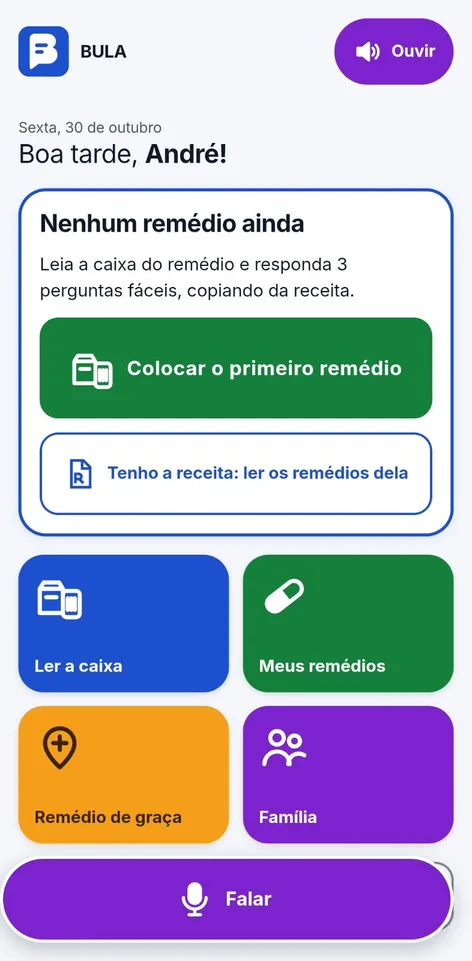
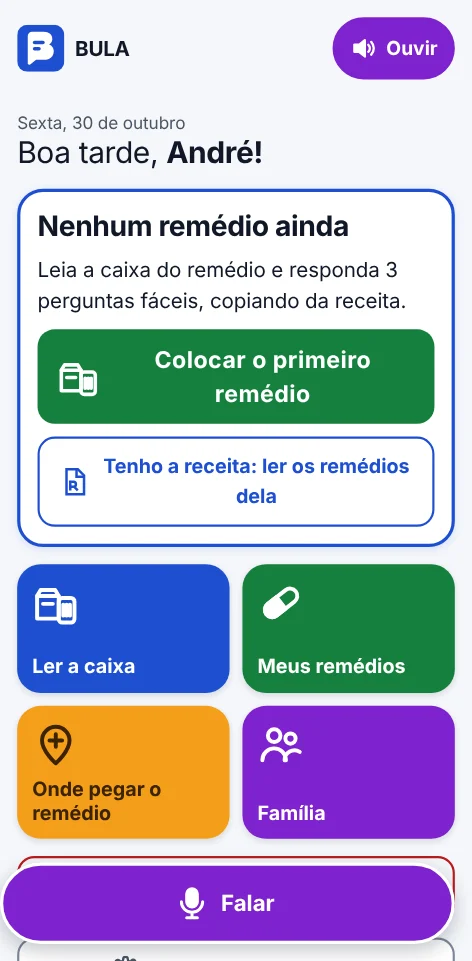
Add files via upload

diff --git a/index.html b/index.html
@@ -207,6 +207,17 @@ tbody tr:last-child td,tbody tr:last-child th{border-bottom:0}
 :root[data-contraste="1"] .subir{background:#000;color:#FFE600;border-color:#FFE600}
 @media (prefers-reduced-motion: reduce){.subir{transition:none}}
 
+/* quem paga, em telas */
+.modelo-telas{list-style:none;padding:0;margin:20px 0 0;display:grid;grid-template-columns:repeat(3,minmax(0,1fr));gap:24px}
+.modelo-telas li{display:flex;flex-direction:column;gap:10px}
+.modelo-telas .celular{background:#020B2B;box-shadow:0 18px 40px rgba(0,0,0,.28)}
+.modelo-telas h4{margin:4px 0 0;font-family:var(--display);font-size:1.15rem;line-height:1.25}
+.modelo-telas p{margin:0;color:var(--sobre-azul-2)}
+.tambem{list-style:none;padding:0;margin:28px 0 0;display:flex;flex-wrap:wrap;gap:10px}
+.tambem li{padding:10px 16px;border-radius:999px;background:rgba(255,255,255,.14);border:1px solid rgba(255,255,255,.35)}
+.exemplo-nota{margin-top:14px;font-size:.88rem;color:var(--sobre-azul-2)}
+:root[data-contraste="1"] .tambem li{background:#000;border-color:#fff}
+@media (max-width:760px){.modelo-telas{grid-template-columns:1fr;max-width:300px;margin-inline:auto}}
 /* privacidade */
 .priv{display:grid;grid-template-columns:repeat(3,minmax(0,1fr));gap:28px;margin-top:40px}
 .priv div{display:flex;flex-direction:column;gap:8px;padding-top:18px;border-top:3px solid var(--azul)}
@@ -343,7 +354,7 @@ tbody tr:last-child td,tbody tr:last-child th{border-bottom:0}
         <button type="button" role="tab" id="tabC" aria-controls="painelC" aria-selected="false" tabindex="-1">Para quem cuida</button>
       </div>
       <ol class="telas" id="painelU" role="tabpanel" aria-labelledby="tabU">
-        <li><div class="celular"><img src="assets/tela-u1.webp" alt="Tela inicial com quatro botões grandes: ler a caixa, meus remédios, remédio de graça e família" loading="lazy" width="472" height="961"></div><h3>Tela inicial</h3><p>Quatro botões grandes e o botão Falar sempre embaixo.</p></li>
+        <li><div class="celular"><img src="assets/tela-u1.webp" alt="Tela inicial com quatro botões grandes: ler a caixa, meus remédios, onde pegar o remédio e família" loading="lazy" width="472" height="961"></div><h3>Tela inicial</h3><p>Quatro botões grandes e o botão Falar sempre embaixo.</p></li>
         <li><div class="celular"><img src="assets/tela-u2.webp" alt="Cadastro do remédio conferindo com a receita: café da manhã, 1 comprimido" loading="lazy" width="472" height="961"></div><h3>Colocar o remédio</h3><p>Leu a caixa, responde três perguntas copiando da receita. O app não indica dose.</p></li>
         <li><div class="celular"><img src="assets/tela-u3.webp" alt="Tela de hoje mostrando o café da manhã atrasado e o botão TOMEI" loading="lazy" width="472" height="961"></div><h3>Hora do remédio</h3><p>A tela de hoje mostra o que tomar agora, com foto da caixa e o botão TOMEI.</p></li>
         <li><div class="celular"><img src="assets/tela-u4.webp" alt="Alarme às 7 horas com o nome do remédio e os botões TOMEI e daqui a 10 minutos" loading="lazy" width="472" height="961"></div><h3>Alarme</h3><p>Toca com o som do BULA e fala o nome do remédio. Dá para conferir a caixa com a câmera.</p></li>
@@ -394,23 +405,25 @@ tbody tr:last-child td,tbody tr:last-child th{border-bottom:0}
         <h2 id="t-modelo">Gratuito para quem usa. Feito para crescer.</h2>
         <p>Quem toma o remédio e quem cuida nunca pagam. Paga quem economiza quando a pessoa toma o remédio certo, na hora certa.</p>
       </div>
+      <h3 class="sub-modelo">Quem paga</h3>
+      <ol class="modelo-telas">
+        <li><div class="celular"><img src="assets/modelo-gratis.webp" alt="Aba Farmácia Popular: os remédios da pessoa que são grátis e como pegar" loading="lazy" width="472" height="1021"></div><h4>1. Grátis primeiro</h4><p>O app mostra onde pegar o remédio de graça.</p></li>
+        <li><div class="celular"><img src="assets/modelo-destaques.webp" alt="Aba Farmácias com um cupom e duas farmácias em destaque, marcadas como patrocinado" loading="lazy" width="472" height="1021"></div><h4>2. Farmácias pagam para aparecer</h4><p>Destaque marcado como patrocinado.</p></li>
+        <li><div class="celular"><img src="assets/modelo-cupom.webp" alt="Cupom de entrega grátis com o código grande para mostrar no caixa; não vale para remédios" loading="lazy" width="472" height="1021"></div><h4>3. Cupom para quem usa</h4><p>Entrega grátis, higiene, cuidado. Nunca remédio.</p></li>
+      </ol>
+      <ul class="tambem">
+        <li><b>Governo</b> leva o BULA de graça à população (CPSI)</li>
+        <li><b>Laboratórios</b> pagam pela bula em voz e letra grande</li>
+        <li><b>Clínicas e planos</b> acompanham quem autorizar</li>
+      </ul>
+      <p class="exemplo-nota">Farmácias e cupom das telas são exemplos.</p>
       <h3 class="sub-modelo">Por que escala</h3>
       <div class="escala">
         <div><span class="n-escala">Brasil</span><h4>Nacional desde o primeiro dia</h4><p>A lista oficial da Anvisa vale para todo o país: mais de 27 mil códigos de barras já vêm dentro do app.</p></div>
         <div><span class="n-escala">≈ 0</span><h4>Custo quase zero por pessoa</h4><p>Funciona sem internet e sem servidor guardando dados de saúde. Cada pessoa nova quase não aumenta o custo.</p></div>
         <div><span class="n-escala">+1</span><h4>Uma cidade de cada vez, sem recomeçar</h4><p>Só farmácias e postos são locais. Vêm do mapa aberto, da lista nacional da Farmácia Popular e dos dados abertos de cada prefeitura.</p></div>
       </div>
-      <h3 class="sub-modelo">Quem paga</h3>
-      <div class="pagantes">
-        <article class="fase modelo-g"><span class="etapa">B2G2C · Governo</span><h4>Secretarias de Saúde e de Inovação</h4><p>Parceria pelo Contrato Público para Solução Inovadora (CPSI), depois por assinatura.</p><p class="destaque-m"><b>Acesso gratuito</b> à população atendida pela rede pública de saúde.</p></article>
-        <article class="fase modelo-b"><span class="etapa">B2B · Empresas parceiras</span><h4>Farmácias, laboratórios, clínicas e planos</h4>
-          <ul class="lista-m">
-            <li><b>Farmácias:</b> destaque no mapa "Comprar perto", marcado como patrocinado e sempre depois das opções de graça.</li>
-            <li><b>Laboratórios:</b> bula em voz e letra grande, que eles já devem oferecer a quem tem deficiência visual.</li>
-            <li><b>Clínicas e planos de saúde:</b> painel para acompanhar quem autorizar, por assinatura.</li>
-          </ul><p class="destaque-m"><b>Nova fonte de receita</b> por parcerias comerciais.</p></article>
-      </div>
-      <p class="neutro">Sem propaganda de remédio: o destaque é da farmácia, nunca do medicamento, e nunca aparece na bula. O que a pessoa toma não é usado para escolher anúncio.</p>
+      <p class="neutro">Nunca anunciamos remédio. O que a pessoa toma não é usado para escolher anúncio.</p>
     </div>
   </section>
 

diff --git a/historia.html b/historia.html
@@ -432,7 +432,7 @@ tbody tr:last-child td,tbody tr:last-child th{border-bottom:0}
         </li>
         <li class="marco futuro">
           <span class="data">Próximos passos</span>
-          <h3>Demoday [data] e REC’n’Play</h3>
+          <h3>Demoday em 13/11 e REC’n’Play</h3>
           <p>Teste com usuários, validação dos avisos com farmacêutico e o BULA no estande do Demoday.</p>
           
         </li>
